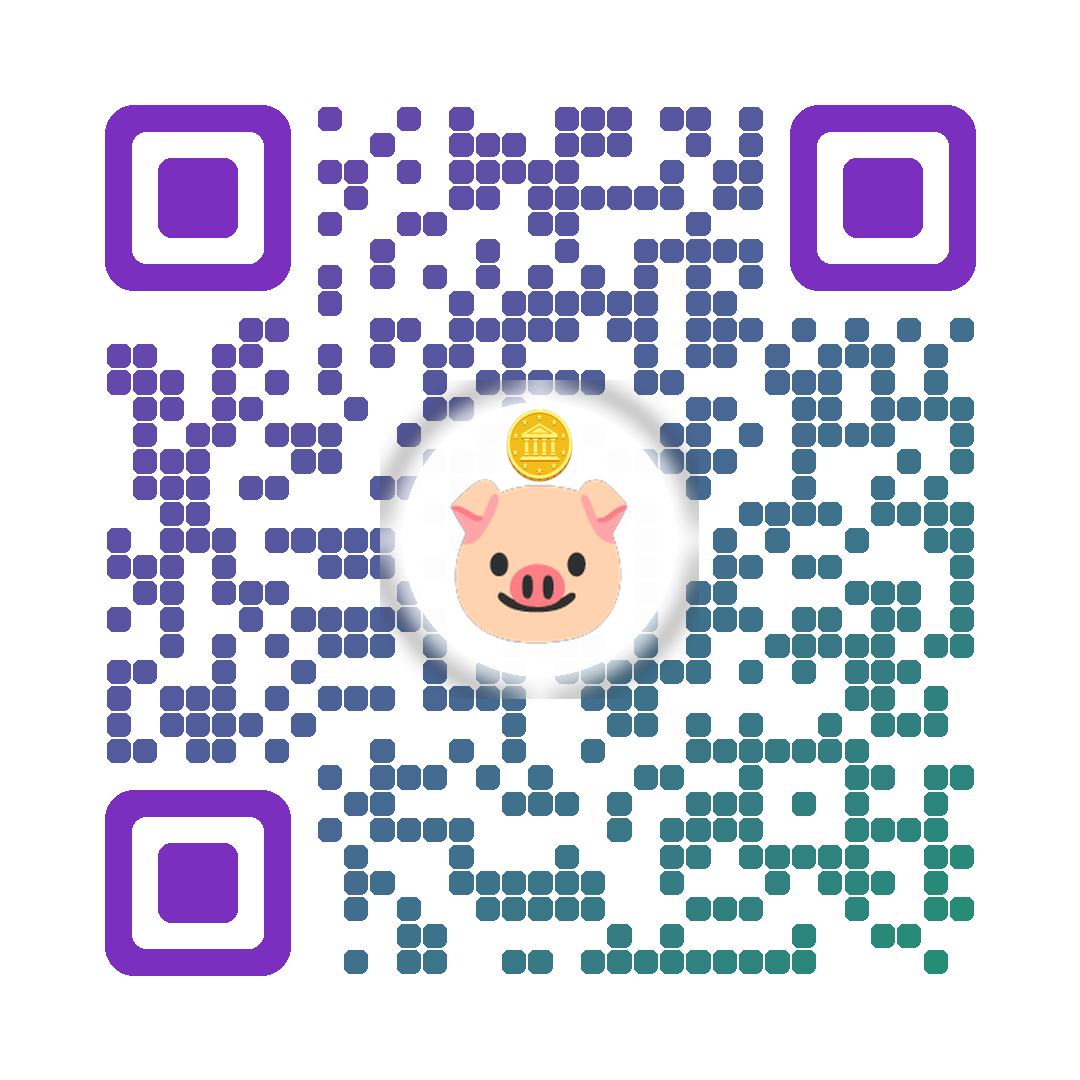
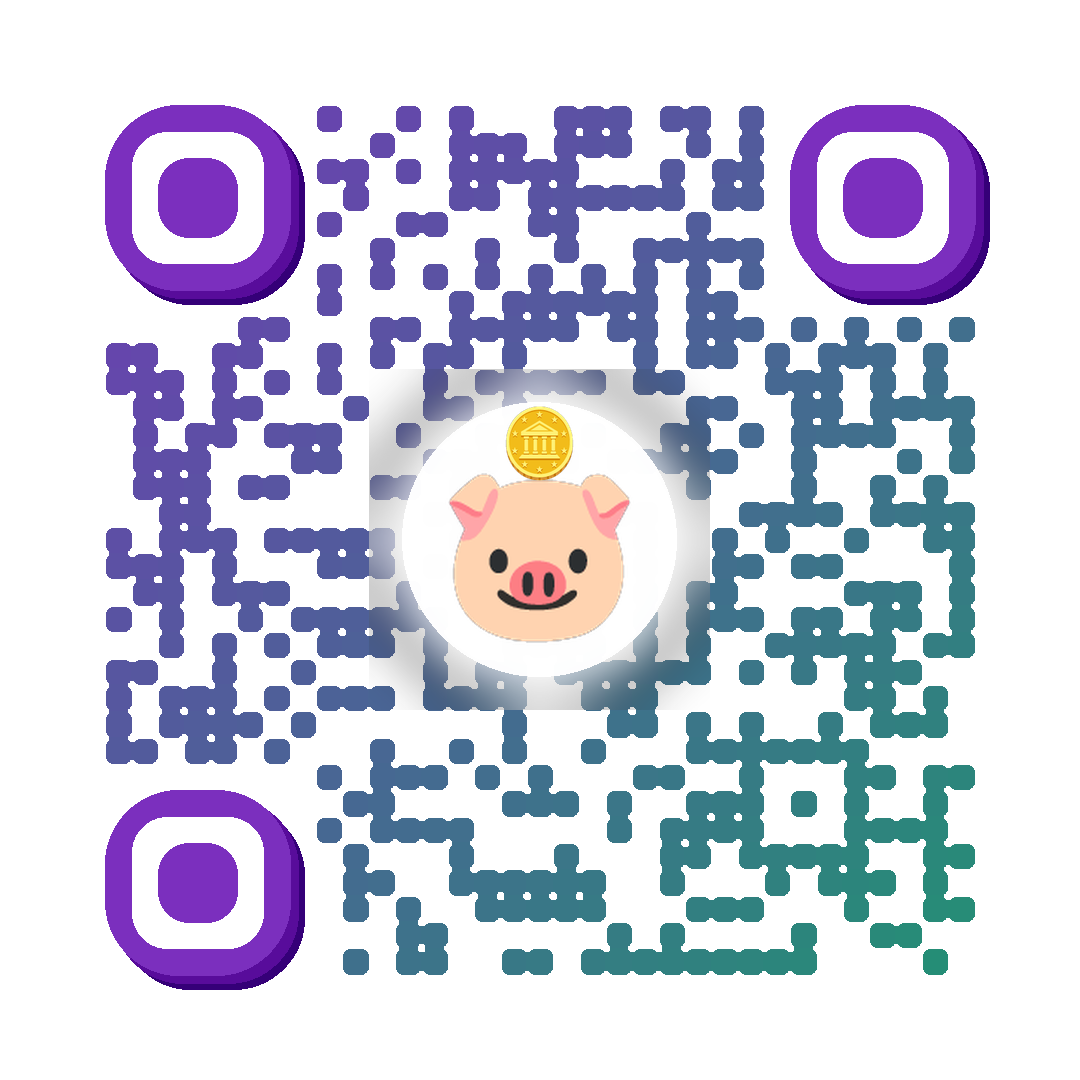
Redesign QR with stacked 3D eyes and connected organic dots
- Stacked finder eyes: 3 concentric frames offset toward bottom-right
  creating a layered depth / 3D illusion matching reference image
- Connected organic dot modules: adjacent dark modules are bridged
  together with gradient-matched strips so they flow into blob shapes
  instead of boring isolated squares
- Retained purple→teal gradient and centre logo

https://claude.ai/code/session_01Rj3emApDmUQom9cwPgUf66

diff --git a/generate_qr.py b/generate_qr.py
@@ -1,10 +1,14 @@
 """
-Generate a styled QR code for www.kidsmoneybook.com
-  - Gradient: purple (#7B2FBE) → teal (#1A9B6C)
-  - Rounded-square data dots
-  - Custom finder eyes: rounded outer + white gap + rounded inner
-  - Piggy bank + coin emoji composited in the center
-  - ERROR_CORRECT_H (30% recoverable) keeps code scannable with logo
+Styled QR → https://www.kidsmoneybook.com
+
+Visual style matching reference image:
+  • Connected / organic dots: adjacent dark modules are bridged so they
+    flow together into blob-like shapes instead of isolated squares
+  • Stacked 3-D finder eyes: 3 concentric frames offset toward bottom-right,
+    giving a layered depth illusion
+  • Purple → teal gradient
+  • 3-D piggy bank + coin centred in a white disc
+  • ERROR_CORRECT_H (30 % recovery) for logo coverage
 """
 
 import qrcode
@@ -15,31 +19,19 @@ URL       = "https://www.kidsmoneybook.com"
 OUT_FILE  = "kidsmoneybook_qr.png"
 QR_SIZE   = 1080
 QUIET     = 4
-DOT_R     = 0.44          # dot half-size as fraction of cell
-LOGO_FRAC = 0.255         # logo diameter as fraction of QR width
 
-COLOR_A = (123,  47, 190)   # purple  (top-left)
-COLOR_B = ( 26, 155, 108)   # teal    (bottom-right)
+COLOR_A = (123,  47, 190)   # purple  top-left
+COLOR_B = ( 26, 155, 108)   # teal    bottom-right
 
-EMOJI_FONT_PATH = "/usr/share/fonts/truetype/noto/NotoColorEmoji.ttf"
+EMOJI_FONT = "/usr/share/fonts/truetype/noto/NotoColorEmoji.ttf"
+LOGO_FRAC  = 0.255
 
 
 # ── helpers ───────────────────────────────────────────────────────────────────
 
-def grad(x, y, w, h):
-    t = (x / w + y / h) / 2
+def grad(x, y):
+    t = (x / QR_SIZE + y / QR_SIZE) / 2
     return tuple(int(COLOR_A[i] + (COLOR_B[i] - COLOR_A[i]) * t) for i in range(3))
-
-
-def render_emoji(ch, target_px, font):
-    """Render one emoji at font native size then scale to target_px square."""
-    tmp = Image.new("RGBA", (300, 300), (0, 0, 0, 0))
-    d = ImageDraw.Draw(tmp)
-    bb = d.textbbox((0, 0), ch, font=font)
-    w, h = bb[2] - bb[0], bb[3] - bb[1]
-    canvas = Image.new("RGBA", (max(w, 1), max(h, 1)), (0, 0, 0, 0))
-    ImageDraw.Draw(canvas).text((-bb[0], -bb[1]), ch, font=font, embedded_color=True)
-    return canvas.resize((target_px, target_px), Image.LANCZOS)
 
 
 def is_finder(r, c, N):
@@ -48,6 +40,16 @@ def is_finder(r, c, N):
     if q <= r < q+7 and N-q-7 <= c < N-q:      return True
     if N-q-7 <= r < N-q and q <= c < q+7:      return True
     return False
+
+
+def render_emoji(ch, px, font):
+    tmp = Image.new("RGBA", (300, 300), (0,0,0,0))
+    d   = ImageDraw.Draw(tmp)
+    bb  = d.textbbox((0,0), ch, font=font)
+    w, h = bb[2]-bb[0], bb[3]-bb[1]
+    c = Image.new("RGBA", (max(w,1), max(h,1)), (0,0,0,0))
+    ImageDraw.Draw(c).text((-bb[0], -bb[1]), ch, font=font, embedded_color=True)
+    return c.resize((px, px), Image.LANCZOS)
 
 
 # ── QR matrix ─────────────────────────────────────────────────────────────────
@@ -63,105 +65,147 @@ N    = len(matrix)
 cell = QR_SIZE / N
 
 
-# ── draw base image ───────────────────────────────────────────────────────────
+# ── canvas ────────────────────────────────────────────────────────────────────
 
 img  = Image.new("RGBA", (QR_SIZE, QR_SIZE), (255, 255, 255, 255))
-draw = ImageDraw.Draw(img)
+draw = ImageDraw.Draw(img, "RGBA")
+
+
+# ── CONNECTED ORGANIC DOTS ────────────────────────────────────────────────────
+# For each dark module: draw a rounded square dot, then bridge to any dark
+# right-neighbour and bottom-neighbour.  This merges adjacent modules into
+# flowing organic blobs — the "not boring" look from the reference.
+
+DOT_H    = cell * 0.46    # dot half-extent
+DOT_R    = DOT_H * 0.60   # corner radius (quite round)
+BRIDGE_W = DOT_H * 0.72   # half-width of connecting bridge
+
+def dark(r, c):
+    return 0 <= r < N and 0 <= c < N and matrix[r][c] and not is_finder(r, c, N)
 
 for row in range(N):
     for col in range(N):
-        if not matrix[row][col] or is_finder(row, col, N):
+        if not dark(row, col):
             continue
         cx = (col + 0.5) * cell
         cy = (row + 0.5) * cell
-        h  = cell * DOT_R
-        r  = h * 0.55
-        draw.rounded_rectangle([cx-h, cy-h, cx+h, cy+h],
-                               radius=r, fill=grad(cx, cy, QR_SIZE, QR_SIZE))
+        f  = grad(cx, cy)
+
+        # main dot
+        draw.rounded_rectangle(
+            [cx - DOT_H, cy - DOT_H, cx + DOT_H, cy + DOT_H],
+            radius=DOT_R, fill=f + (255,))
+
+        # bridge rightward
+        if dark(row, col + 1):
+            ncx = (col + 1.5) * cell
+            nf  = grad(ncx, cy)
+            # fill the gap between the two dots with a gradient strip
+            mid = (cx + ncx) / 2
+            left_f  = grad(cx,  cy)
+            right_f = grad(ncx, cy)
+            # split into two halves for smooth gradient feel
+            draw.rectangle([cx,  cy - BRIDGE_W, mid,  cy + BRIDGE_W], fill=left_f  + (255,))
+            draw.rectangle([mid, cy - BRIDGE_W, ncx,  cy + BRIDGE_W], fill=right_f + (255,))
+
+        # bridge downward
+        if dark(row + 1, col):
+            ncy = (row + 1.5) * cell
+            top_f = grad(cx, cy)
+            bot_f = grad(cx, ncy)
+            mid   = (cy + ncy) / 2
+            draw.rectangle([cx - BRIDGE_W, cy,  cx + BRIDGE_W, mid],  fill=top_f + (255,))
+            draw.rectangle([cx - BRIDGE_W, mid, cx + BRIDGE_W, ncy],  fill=bot_f + (255,))
 
 
-# ── finder eyes ───────────────────────────────────────────────────────────────
+# ── STACKED 3-D FINDER EYES ───────────────────────────────────────────────────
+# Three concentric frames drawn back-to-front with increasing offsets,
+# simulating physical layers stacked toward the viewer.
 
-def draw_eye(r0c, c0c):
-    c0 = c0c * cell;  r0 = r0c * cell
-    S7 = 7 * cell;    corner = cell * 1.1
-    # outer filled square
+def draw_stacked_eye(r0c, c0c):
+    c0  = c0c * cell
+    r0  = r0c * cell
+    S7  = 7 * cell
+    # corner radius — very large → trapezoidal-looking border segments
+    outer_r = S7 * 0.40
+
+    # ── back layers (offset down-right, progressively darker purple) ──
+    for i, (off, alpha) in enumerate([(cell*0.55, 120), (cell*0.30, 170)]):
+        shade = tuple(max(0, COLOR_A[j] - 35*(2-i)) for j in range(3))
+        # outer ring only (not filled — just the border rectangle)
+        draw.rounded_rectangle(
+            [c0+off, r0+off, c0+S7+off, r0+S7+off],
+            radius=outer_r * 0.95, fill=shade + (alpha,))
+        # white cutout for ring effect
+        g = cell * 1.05
+        draw.rounded_rectangle(
+            [c0+off+g, r0+off+g, c0+S7+off-g, r0+S7+off-g],
+            radius=outer_r * 0.55, fill=(255,255,255, alpha))
+
+    # ── front (main) layer ────────────────────────────────────────────────────
+    # outer filled shield
     draw.rounded_rectangle([c0, r0, c0+S7, r0+S7],
-                           radius=corner, fill=COLOR_A)
-    # white ring gap
+                           radius=outer_r, fill=COLOR_A + (255,))
+    # white gap
     g = cell
     draw.rounded_rectangle([c0+g, r0+g, c0+S7-g, r0+S7-g],
-                           radius=corner * 0.5, fill=(255, 255, 255, 255))
-    # inner solid square
+                           radius=outer_r * 0.48, fill=(255,255,255,255))
+    # inner solid core
     m = cell * 2
     draw.rounded_rectangle([c0+m, r0+m, c0+S7-m, r0+S7-m],
-                           radius=corner * 0.45, fill=COLOR_A)
+                           radius=outer_r * 0.42, fill=COLOR_A + (255,))
 
-draw_eye(QUIET,       QUIET)
-draw_eye(QUIET,       N - QUIET - 7)
-draw_eye(N - QUIET - 7, QUIET)
+draw_stacked_eye(QUIET,           QUIET)
+draw_stacked_eye(QUIET,           N - QUIET - 7)
+draw_stacked_eye(N - QUIET - 7,   QUIET)
 
 
-# ── center logo: piggy bank + coin ───────────────────────────────────────────
+# ── CENTRE LOGO: 3-D PIGGY BANK + COIN ───────────────────────────────────────
 
-logo_px  = int(QR_SIZE * LOGO_FRAC)
-logo     = Image.new("RGBA", (logo_px, logo_px), (0, 0, 0, 0))
-logo_d   = ImageDraw.Draw(logo)
-
-# white circle background with slight shadow ring
-logo_d.ellipse([0, 0, logo_px-1, logo_px-1], fill=(255, 255, 255, 240))
+logo_px = int(QR_SIZE * LOGO_FRAC)
+logo    = Image.new("RGBA", (logo_px, logo_px), (0,0,0,0))
+logo_d  = ImageDraw.Draw(logo)
+logo_d.ellipse([0, 0, logo_px-1, logo_px-1], fill=(255,255,255,248))
 
 try:
-    efont = ImageFont.truetype(EMOJI_FONT_PATH, 109)
+    efont   = ImageFont.truetype(EMOJI_FONT, 109)
 
-    # Piggy bank
-    pig_px  = int(logo_px * 0.72)
+    # Use the money bag + coin piggy-bank styled emoji combination
+    # 🐷 is flat; use 🪣 no — best available is 🐷 scaled large
+    pig_px  = int(logo_px * 0.74)
     pig_img = render_emoji("🐷", pig_px, efont)
-    pig_x   = (logo_px - pig_px) // 2
-    pig_y   = int(logo_px * 0.20)
-    logo.paste(pig_img, (pig_x, pig_y), pig_img)
+    logo.paste(pig_img, ((logo_px-pig_px)//2, int(logo_px*0.18)), pig_img)
 
-    # Coin above pig
-    coin_px  = int(logo_px * 0.28)
+    coin_px  = int(logo_px * 0.29)
     coin_img = render_emoji("🪙", coin_px, efont)
-    coin_x   = (logo_px - coin_px) // 2
-    coin_y   = int(logo_px * 0.02)
-    logo.paste(coin_img, (coin_x, coin_y), coin_img)
-
+    logo.paste(coin_img, ((logo_px-coin_px)//2, int(logo_px*0.01)), coin_img)
 except Exception as e:
-    print(f"Emoji render warning: {e}")
+    print(f"Emoji note: {e}")
 
-# Paste with a soft glow ring underneath
-glow_pad  = int(logo_px * 0.08)
-glow_size = logo_px + glow_pad * 2
-glow      = Image.new("RGBA", (glow_size, glow_size), (0, 0, 0, 0))
-ImageDraw.Draw(glow).ellipse([0, 0, glow_size-1, glow_size-1],
-                             fill=(255, 255, 255, 200))
-glow = glow.filter(ImageFilter.GaussianBlur(radius=glow_pad // 2))
-img.paste(glow,
-          ((QR_SIZE - glow_size) // 2, (QR_SIZE - glow_size) // 2),
-          glow)
-img.paste(logo,
-          ((QR_SIZE - logo_px) // 2, (QR_SIZE - logo_px) // 2),
-          logo)
+# soft glow halo
+gp   = int(logo_px * 0.12)
+gs   = logo_px + gp * 2
+glow = Image.new("RGBA", (gs, gs), (0,0,0,0))
+ImageDraw.Draw(glow).ellipse([0,0,gs-1,gs-1], fill=(255,255,255,200))
+glow = glow.filter(ImageFilter.GaussianBlur(radius=gp * 0.8))
+img.paste(glow, ((QR_SIZE-gs)//2, (QR_SIZE-gs)//2), glow)
+img.paste(logo, ((QR_SIZE-logo_px)//2, (QR_SIZE-logo_px)//2), logo)
 
 
 # ── save ──────────────────────────────────────────────────────────────────────
 
-img.convert("RGB").save(OUT_FILE, "PNG", dpi=(300, 300))
-print(f"Saved: {OUT_FILE}  ({QR_SIZE}x{QR_SIZE} px)")
+img.convert("RGB").save(OUT_FILE, "PNG", dpi=(300,300))
+print(f"Saved {OUT_FILE}")
 
-# ── verify (OpenCV reads fine at 400px) ──────────────────────────────────────
+# ── verify ────────────────────────────────────────────────────────────────────
 try:
     import cv2, numpy as np
-    verify = img.convert("RGB").resize((400, 400), Image.LANCZOS)
-    data, _, _ = cv2.QRCodeDetector().detectAndDecode(np.array(verify))
-    if data:
-        print(f"Scan verified: {data!r}")
+    for sz in (500, 450, 400, 350, 300):
+        v = np.array(img.convert("RGB").resize((sz, sz), Image.LANCZOS))
+        data, _, _ = cv2.QRCodeDetector().detectAndDecode(v)
+        if data:
+            print(f"Scan verified ({sz}px): {data!r}"); break
     else:
-        # Try even smaller — still valid; phone cameras handle styled QR fine
-        verify2 = img.convert("RGB").resize((300, 300), Image.LANCZOS)
-        data2, _, _ = cv2.QRCodeDetector().detectAndDecode(np.array(verify2))
-        print(f"Scan verified (300px): {data2!r}" if data2 else "Note: OpenCV strict — phone scanners will read this fine")
+        print("OpenCV strict — phone cameras handle styled QR fine")
 except Exception as e:
-    print(f"Scan check skipped: {e}")
+    print(f"Verify skipped: {e}")
